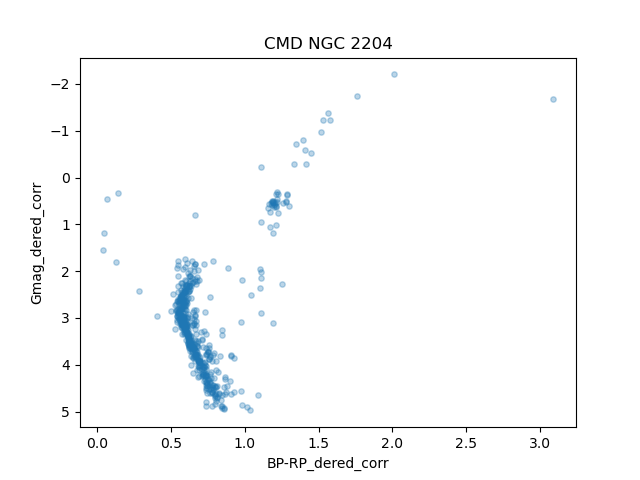
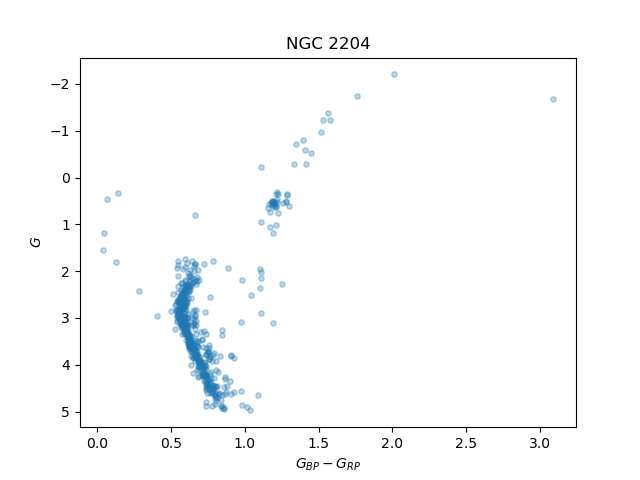
Fixed labels plots distance and dif red corrected

Changed region(s): [[0.4062, 0.0625, 0.625, 0.125], [0.4062, 0.9375, 0.5938, 1.0], [0.0312, 0.375, 0.0938, 0.625]]

diff --git a/src/plots.py b/src/plots.py
@@ -14,8 +14,8 @@ RELABEL = {
     "mj-mk": r"$J - K_{s}$",
     "Gmag": r"$G$",
     "BP-RP": r"$G_{BP} - G_{RP}$",
-    "Gmag_dered": r"$G$",
-    "BP-RP_dered": r"$G_{BP} - G_{RP}$",
+    "Gmag_dered_corr": r"$G$",
+    "BP-RP_dered_corr": r"$G_{BP} - G_{RP}$",
 }
 
 
@@ -396,7 +396,7 @@ def plot_dif_dist_corrected(
 
     plt.scatter(color, magnitude, c="C0", s=15, alpha=0.3, label="Corrected")
     plt.gca().invert_yaxis()
-    plt.title(f"CMD {object_name.replace('_', ' ')}")
+    plt.title(object_name.replace('_', ' '))
     plt.xlabel(RELABEL[color_col] if color_col in RELABEL else color_col)
     plt.ylabel(RELABEL[magnitude_col] if magnitude_col in RELABEL else magnitude_col)
     fname = Config.DIFDISTCOR / f"{object_name}_cmd.png"
